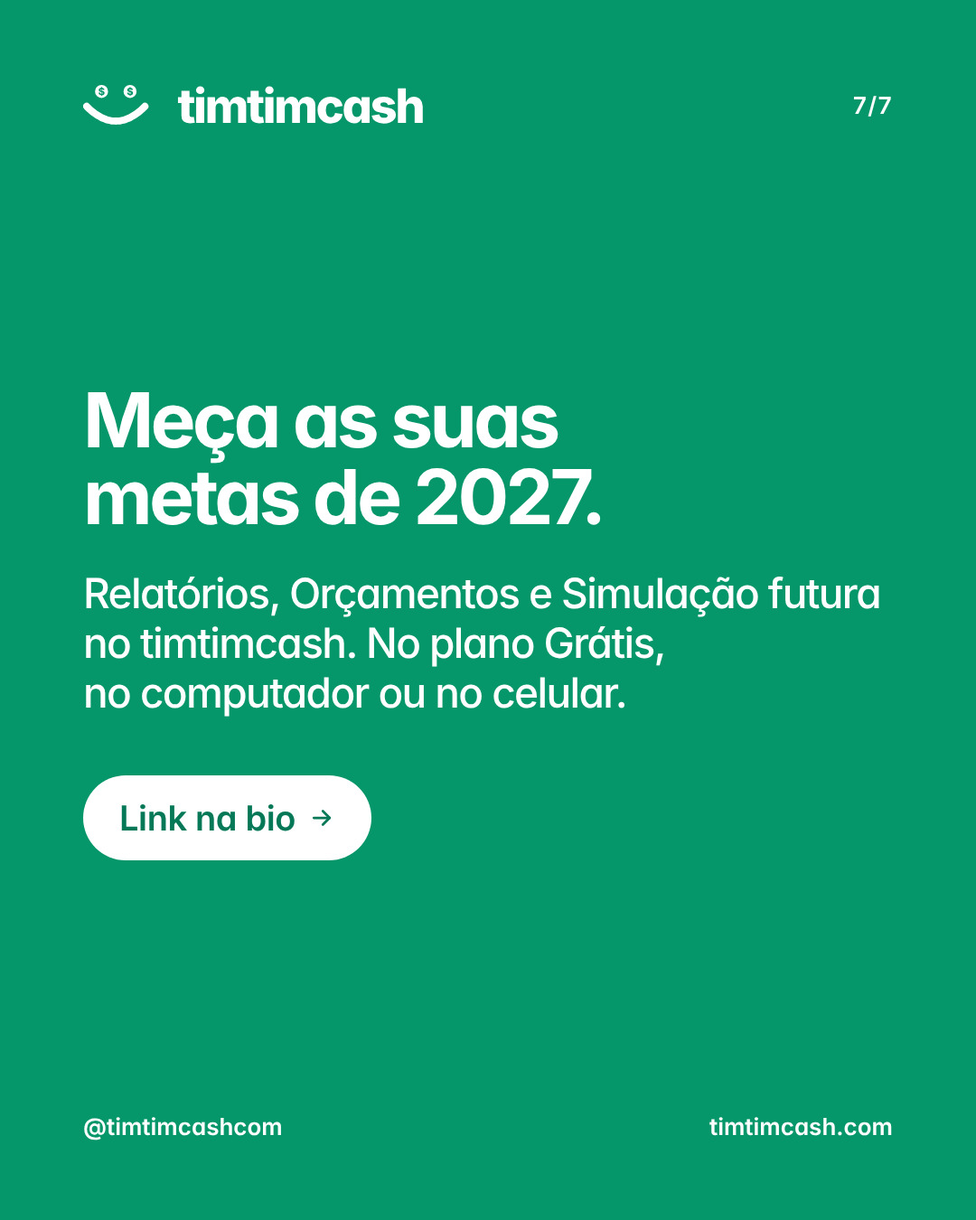
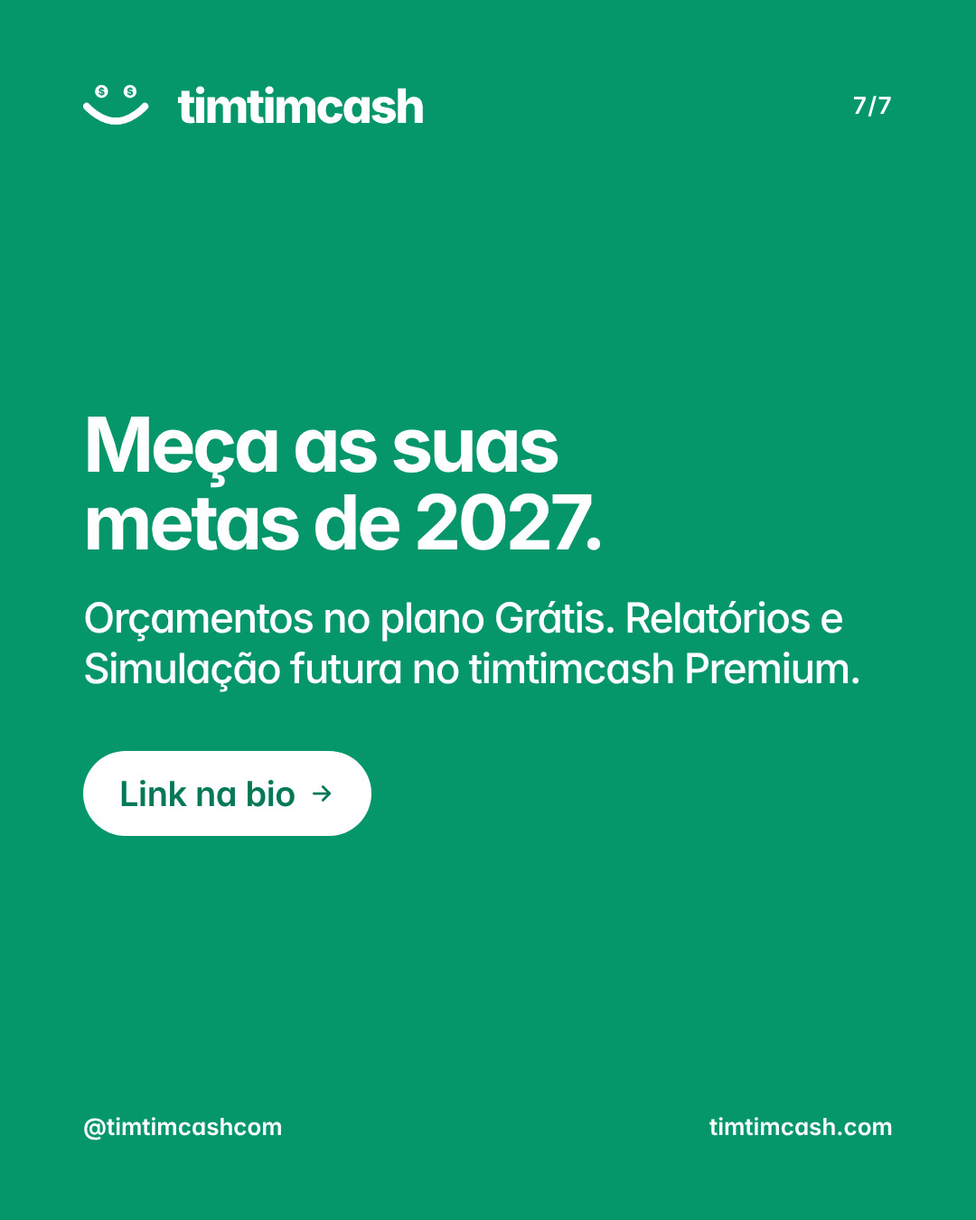
Premium: Relatórios e Simulação futura nos posts agendados (21/11/2026)
Desde o build 2026-11-20.1, Relatórios (com o Diagnóstico) e a Simulação futura são
do Premium. Aprovado pelo dono em 21/11/2026: em 16 posts agendados (22/11/2026 a
26/02/2027), a legenda passa a dizer isso; em seis carrosséis (26/11, 16/12, 21/12,
16/01, 06/02 e 26/02), o último slide e o texto alternativo deixam de dizer
"No plano Grátis". A regra dos planos em gerador/FUNCIONALIDADES.md acompanha.

Claude-Session: https://claude.ai/code/session_016QkANUS9yS3CrXh74FyZHQ

Changed region(s): [[0.0611, 0.3111, 0.9167, 0.7156]]

diff --git a/gerador/semanas/2026-12/dados/2026-12-16_sua-inflacao-nao-e-a-do-ipca.py b/gerador/semanas/2026-12/dados/2026-12-16_sua-inflacao-nao-e-a-do-ipca.py
@@ -38,7 +38,7 @@ POST = {
         "NO EXEMPLO · A sua cesta tem outros pesos. · Barras em par (cinza: IPCA, setembro de 2026; coral: exemplo, novembro de 2026): Alimentação 21,5% e 30,3%; Habitação 15,3% e 27,3%; Educação 6,2% e 15,8% (destaque); Transportes 20,2% e 13,2%; Saúde 13,8% e 1,4%. · Nota: Em % do gasto. No exemplo (novembro de 2026), Alimentação soma mercado e bares e restaurantes; Habitação, aluguel e luz.",
         "LEIA ASSIM · Onde a sua cesta pesa mais, a alta pesa mais. · Cartão: Educação no IPCA 6,2% → no exemplo 15,8% · 2,5× o peso. “Em 12 meses, Educação subiu 5,95%, mais que o índice (4,58%). Nessa casa, a alta da escola pesa duas vezes e meia o que pesa no IPCA.” · Citação em verde suave: “O seu índice pessoal de inflação pode ser maior ou menor do que o IPCA.” IBGE, “Inflação”, na série IBGE Explica.",
         "NO TIMTIMCASH · Veja quanto cada categoria leva do seu gasto. · Em Relatórios, Despesas por categoria, no período que você escolher. · Tela real no celular (relógio em 16/12/2026, novembro de 2026): “Despesas por categoria · 9 categorias · Total R$ 9.149,40”; Casa R$ 2.501,80 27,3%; Mercado R$ 1.844,90 20,2%; Educação R$ 1.450,00 15,8%; Transporte R$ 1.210,00 13,2%; Bares e restaurantes R$ 928,60 10,1%. Ao lado, o “GRUPO DO IPCA” de cada linha: Habitação, Alimentação, Educação (em coral), Transportes, Alimentação. · Nota: Tela real do timtimcash, com dados de exemplo.",
-        "Fechamento (fundo verde) · Conheça a sua cesta. · Relatórios no timtimcash. No plano Grátis, no computador ou no celular. · Botão: Link na bio.",
+        "Fechamento (fundo verde) · Conheça a sua cesta. · Relatórios no timtimcash Premium, no computador ou no celular. · Botão: Link na bio.",
     ],
     "legenda": (
         "A inflação oficial é uma média. A sua tem outros pesos.\n\n"
@@ -48,6 +48,7 @@ POST = {
         "No nosso exemplo, a escola leva 15,8% das despesas de novembro: duas vezes e meia o peso de Educação no IPCA. "
         "Quando a mensalidade sobe, essa casa sente mais do que o índice. O próprio IBGE lembra: a sua inflação pode ser maior ou menor do que o IPCA.\n\n"
         "No timtimcash, Relatórios mostra em Despesas por categoria quanto cada categoria leva do seu gasto, no período que você escolher.\n\n"
+        "Relatórios são do timtimcash Premium.\n\n"
         "Tela real do timtimcash, com dados de exemplo.\n\n"
         "Fonte: IBGE, IPCA de setembro de 2026 (divulgado em 09/10/2026).\n\n"
         "Acesse pelo navegador, no computador ou no celular: timtimcash.com\n\n"
@@ -66,7 +67,7 @@ POST = {
         "No exemplo, a sua cesta tem outros pesos. Barras em par, o IPCA de setembro de 2026 e o exemplo de novembro de 2026, em porcentagem do gasto: Alimentação, 21,5% e 30,3%; Habitação, 15,3% e 27,3%; Educação, 6,2% e 15,8%; Transportes, 20,2% e 13,2%; Saúde, 13,8% e 1,4%. No exemplo, Alimentação soma mercado e bares e restaurantes; Habitação, aluguel e luz.",
         "Leia assim: onde a sua cesta pesa mais, a alta pesa mais. Educação pesa 6,2% no IPCA e 15,8% no exemplo, 2,5 vezes o peso. Em 12 meses, Educação subiu 5,95%, mais que o índice, de 4,58%; nessa casa, a alta da escola pesa duas vezes e meia o que pesa no IPCA. Citação do IBGE: o seu índice pessoal de inflação pode ser maior ou menor do que o IPCA.",
         "No timtimcash: veja quanto cada categoria leva do seu gasto, em Relatórios, Despesas por categoria. Tela real no celular, novembro de 2026, com dados de exemplo: total de R$ 9.149,40 em 9 categorias; Casa, R$ 2.501,80, 27,3%; Mercado, R$ 1.844,90, 20,2%; Educação, R$ 1.450,00, 15,8%; Transporte, R$ 1.210,00, 13,2%; Bares e restaurantes, R$ 928,60, 10,1%. Ao lado de cada linha, o grupo do IPCA: Habitação, Alimentação, Educação, Transportes e Alimentação.",
-        "Conheça a sua cesta. Relatórios no timtimcash. No plano Grátis, no computador ou no celular. Link na bio.",
+        "Conheça a sua cesta. Relatórios no timtimcash Premium, no computador ou no celular. Link na bio.",
     ],
     "fontes": [
         ("IBGE · IPCA fica em 0,82% em setembro (4,58% em 12 meses), release de 09/10/2026", "https://agenciadenoticias.ibge.gov.br/agencia-sala-de-imprensa/2013-agencia-de-noticias/releases/48246-ipca-fica-em-0-82-em-setembro"),

diff --git a/gerador/semanas/2027-02/dados/2027-02-06_gasto-anual-vira-mensal.py b/gerador/semanas/2027-02/dados/2027-02-06_gasto-anual-vira-mensal.py
@@ -40,13 +40,14 @@ POST = {
         "A REGRA · Guarde 1/12 por mês. · Começando em fevereiro, o dinheiro de janeiro fica pronto antes de janeiro chegar. · Gráfico “O fundo do ano, mês a mês · + R$ 455,37 todo mês”: 12 barras verdes, de fev a jan, que crescem até R$ 2.403,70 em novembro, descem em dezembro e chegam a quase zero em janeiro. Legenda: fev a nov: paga o IPTU e cresce; dez: paga o Natal; jan: paga IPVA, material e uniforme. · Nota: Conta de exemplo, com os valores de 2027 repetidos até janeiro de 2028, quando o fundo paga a última conta do ciclo.",
         "NO TIMTIMCASH · SIMULAÇÃO FUTURA · Um gasto em todo janeiro. · Em “Ajustar por mês”, a regra “+ Um mês do ano” põe o IPVA em cada janeiro do cenário. · Tela real no celular, relógio em 06/02/2027: Regras, 1 regra, “Todo mês de janeiro”, R$ 1.236; os botões “+ A partir de um mês”, “+ Um mês do ano” e “+ Um mês específico”; “Resultado nos 24 meses · 22 meses em R$ 0 · 2 em R$ 1.236”, com a faixa de fev/27 a jan/29 e os dois janeiros em verde. · Nota: Tela real do timtimcash, com dados de exemplo.",
         "NO TIMTIMCASH · NOVA TRANSAÇÃO · Ou lance o IPVA como Fixa anual. · O de 2028 já fica em Pendentes, com a data. E todo janeiro aparece de novo. · Tela real da “Nova transação” no celular, relógio em 06/02/2027: Despesa, R$ 1.236,00; Data 20/01/2028; “Marcar como pago” desligado; Categoria Impostos e Taxas; Pago via Conta corrente; IPVA; Recorrência Fixa; Anual; “Lançamentos automáticos · anual”. · Nota: Tela real do timtimcash, com dados de exemplo.",
-        "Fechamento (fundo verde) · Janeiro sem susto. · Simulação futura no timtimcash. No plano Grátis, no computador ou no celular. · Botão: Link na bio.",
+        "Fechamento (fundo verde) · Janeiro sem susto. · Simulação futura no timtimcash Premium, no computador ou no celular. · Botão: Link na bio.",
     ],
     "legenda": (
         "O gasto que vem uma vez por ano cabe no mês, se você dividir por 12.\n\n"
         "Na conta de exemplo: IPVA de R$ 1.236, IPTU de R$ 2.150 (10 × R$ 215), material e uniforme de R$ 1.226 e R$ 852,40 de presentes de Natal. São R$ 5.464,40 no ano, ou R$ 455,37 por mês.\n\n"
         "A regra: guarde 1/12 por mês. Começando em fevereiro, o fundo paga o IPTU de fevereiro a novembro, o Natal em dezembro e o IPVA, o material e o uniforme em janeiro de 2028.\n\n"
         "No timtimcash, a Simulação futura tem a regra “+ Um mês do ano”: o IPVA entra em todo janeiro do cenário. E na Nova transação, a recorrência Fixa anual deixa o IPVA de 2028 em Pendentes, com a data.\n\n"
+        "A Simulação futura é do timtimcash Premium.\n\n"
         "Tela real do timtimcash, com dados de exemplo.\n\n"
         "Acesse pelo navegador, no computador ou no celular: timtimcash.com\n\n"
         "#planejamentofinanceiro #ipva #iptu #financaspessoais #timtimcash"
@@ -63,7 +64,7 @@ POST = {
         "A regra: guarde 1/12 por mês. Começando em fevereiro, o dinheiro de janeiro fica pronto antes de janeiro chegar. Gráfico do fundo do ano, com R$ 455,37 guardados todo mês: as barras crescem de fevereiro a novembro, quando chegam a R$ 2.403,70, mesmo pagando o IPTU; em dezembro o fundo paga o Natal; em janeiro paga IPVA, material e uniforme e fica perto de zero.",
         "No timtimcash, na Simulação futura: um gasto em todo janeiro. Em Ajustar por mês, a regra Um mês do ano põe o IPVA em cada janeiro do cenário. Tela real do celular, com dados de exemplo: regra Todo mês de janeiro, R$ 1.236; resultado nos 24 meses, 22 meses em zero e 2 em R$ 1.236, com os dois janeiros destacados na faixa de fevereiro de 2027 a janeiro de 2029.",
         "No timtimcash, na Nova transação: ou lance o IPVA como Fixa anual. O de 2028 já fica em Pendentes, com a data, e todo janeiro aparece de novo. Tela real do celular, com dados de exemplo: despesa de R$ 1.236, data 20 de janeiro de 2028, ainda não paga, categoria Impostos e Taxas, descrição IPVA, recorrência Fixa, anual.",
-        "Janeiro sem susto. Simulação futura no timtimcash. No plano Grátis, no computador ou no celular. Link na bio.",
+        "Janeiro sem susto. Simulação futura no timtimcash Premium, no computador ou no celular. Link na bio.",
     ],
     "fontes": [],
     "telas": [

diff --git a/gerador/semanas/2027-01/dados/2027-01-16_o-que-se-repete-todo-mes.py b/gerador/semanas/2027-01/dados/2027-01-16_o-que-se-repete-todo-mes.py
@@ -35,7 +35,7 @@ POST = {
         "O QUE SE REPETE · Fixa, parcela e o que se repete. · Três linhas reais da lista de dez/26: Aluguel (Fixa) R$ 2.300,00, ao lado “Fixa: lançada como Fixa: aluguel, escola, assinaturas”; Notebook (Parcela 2/10) R$ 360,00, “Parcela: compra parcelada: o notebook em 10 vezes”; Mercado da Vila (Repetida) R$ 452,30, “Repetida: mesma descrição em 3 ou mais meses: mercado, combustível”. Embaixo, a regra da tela: “Entram como recorrentes as despesas lançadas como Fixa ou Parcelada e as que se repetem com a mesma descrição em 3 ou mais meses, com valor na mesma ordem de grandeza.” · Nota: Tela real do timtimcash, com dados de exemplo.",
         "O PONTUAL · O pontual tem data. · Em 2026, R$ 6.063,50 vieram uma vez só. Janeiro, julho e dezembro levaram a maior parte. · Barras do pontual por mês em 2026 (R$): jan 1.390, jul 640, set 264, out 276, nov 519, dez 2.974,50; os outros meses vazios. Tela real da lista Pontual · Jan/26, R$ 1.390,00, 15% do mês: IPVA · parcela única R$ 1.180,00 e IPTU · 1ª parcela R$ 210,00. · Nota: Tela real do timtimcash, com dados de exemplo.",
         "POR QUE SEPARAR · Cada parte pede um cuidado. · Recorrente, 94%, R$ 7.982,60 por mês: entra no plano do mês, e um ajuste nele vale 12 vezes: R$ 50 a menos por mês são R$ 600 no ano. Pontual, 6%, R$ 6.063,50 no ano: não vem todo mês, mas vem; separe antes: no exemplo, janeiro, julho e dezembro. · Nota: Exemplo: a conta fictícia dos nossos posts, despesas pagas de janeiro a dezembro de 2026.",
-        "Fechamento (fundo verde) · Veja o que se repete no seu ano. · Relatórios no timtimcash. No plano Grátis, no computador ou no celular. · Botão: Link na bio.",
+        "Fechamento (fundo verde) · Veja o que se repete no seu ano. · Relatórios no timtimcash Premium, no computador ou no celular. · Botão: Link na bio.",
     ],
     "legenda": (
         "Quanto do seu gasto se repete?\n\n"
@@ -47,7 +47,7 @@ POST = {
         "O recorrente entra no plano do mês, e um ajuste nele vale 12 vezes: R$ 50 a menos por mês são R$ 600 no ano. O pontual não vem "
         "todo mês, mas vem: dá para separar antes.\n\n"
         "Tela real do timtimcash, com dados de exemplo.\n\n"
-        "No plano Grátis, os Relatórios mostram os últimos 12 meses; o histórico completo, como o ano de 2026 inteiro, é do Premium.\n\n"
+        "Relatórios são do timtimcash Premium.\n\n"
         "Acesse pelo navegador, no computador ou no celular: timtimcash.com\n\n"
         "#planejamentofinanceiro #orcamento #controlefinanceiro #financaspessoais #timtimcash"
     ),
@@ -63,7 +63,7 @@ POST = {
         "Fixa, parcela e o que se repete. Três linhas reais da lista de dezembro: aluguel, marcado como Fixa, 2.300 reais, lançado como fixa, como aluguel, escola e assinaturas; notebook, parcela 2 de 10, 360 reais, compra parcelada; Mercado da Vila, marcado como Repetida, 452 reais e 30 centavos, a mesma descrição em 3 ou mais meses, como mercado e combustível. Embaixo, a regra da tela: entram como recorrentes as despesas lançadas como Fixa ou Parcelada e as que se repetem com a mesma descrição em 3 ou mais meses, com valor na mesma ordem de grandeza.",
         "O pontual tem data. Em 2026, 6.063 reais e 50 centavos vieram uma vez só; janeiro, julho e dezembro levaram a maior parte. Barras do pontual por mês: janeiro, 1.390 reais; julho, 640; setembro, 264; outubro, 276; novembro, 519; dezembro, 2.974 reais e 50 centavos. Tela real da lista pontual de janeiro de 2026: IPVA, parcela única, 1.180 reais, e IPTU, primeira parcela, 210 reais.",
         "Por que separar: cada parte pede um cuidado. Recorrente, 94%, 7.982 reais e 60 centavos por mês: entra no plano do mês, e um ajuste nele vale 12 vezes; 50 reais a menos por mês são 600 no ano. Pontual, 6%, 6.063 reais e 50 centavos no ano: não vem todo mês, mas vem; separe antes, no exemplo em janeiro, julho e dezembro.",
-        "Veja o que se repete no seu ano. Relatórios no timtimcash. No plano Grátis, no computador ou no celular. Link na bio.",
+        "Veja o que se repete no seu ano. Relatórios no timtimcash Premium, no computador ou no celular. Link na bio.",
     ],
     "fontes": [],
     "telas": [

diff --git a/gerador/semanas/2027-02/dados/2027-02-26_fevereiro-fechou-5-perguntas.py b/gerador/semanas/2027-02/dados/2027-02-26_fevereiro-fechou-5-perguntas.py
@@ -38,7 +38,7 @@ POST = {
         "PERGUNTA 3 DE 5 · RELATÓRIOS · 3 Quanto da receita ficou? · 11,4% até hoje, abaixo da sua média de 18,3%. A meta é 20%. · Recorte da tela real do Diagnóstico de fevereiro 2027 no celular: 11%, Abaixo do seu padrão · −6,9 pontos percentuais; Você costuma guardar 18,3% da receita. O maior desvio veio de Mercado: +R$ 453,50 em relação à média.; Receita guardada 11,4%, −6,9 p.p., sua média (12m): 18,3% · meta: 20%. · Nota: Tela real do timtimcash, com dados de exemplo.",
         "PERGUNTA 4 DE 5 · RELATÓRIOS · 4 O que fugiu do normal? · Mercado: R$ 453,50 acima da média, +28%. Saúde ficou 52% abaixo. · Recorte da tela real de “O que mudou” (Maiores desvios em relação à sua média de 12 meses): Mercado, média R$ 1.646,10 · agora R$ 2.099,60, +R$ 453,50, +28%; Saúde, média R$ 268,11 · agora R$ 129,90, −R$ 138,21, −52%. · Nota: Tela real do timtimcash, com dados de exemplo.",
         "PERGUNTA 5 DE 5 · ORÇAMENTOS · 5 Como ficaram os limites? · Bares e restaurantes passou R$ 101; Mercado, R$ 99. As outras 3 categorias ficaram dentro do limite. · Recorte da tela real de Orçamentos no celular, faixa “Já passaram do limite”: Bares e restaurantes, R$ 701 de R$ 600, 117%, Excedeu em R$ 101, no ritmo fecha em R$ 755; Mercado, R$ 2.099 de R$ 2.000, 105%, Excedeu em R$ 99, no ritmo fecha em R$ 2.261. · Nota: Tela real do timtimcash, com dados de exemplo.",
-        "Fechamento (fundo verde) · Feche o mês com respostas. · Visão geral, Pendentes, Relatórios e Orçamentos, no plano Grátis, no computador ou no celular. · Botão: Link na bio.",
+        "Fechamento (fundo verde) · Feche o mês com respostas. · Visão geral, Pendentes e Orçamentos no plano Grátis. Relatórios no timtimcash Premium. · Botão: Link na bio.",
     ],
     "legenda": (
         "Fevereiro fechou. 5 perguntas antes de março.\n\n"
@@ -49,6 +49,7 @@ POST = {
         "5. Como ficaram os limites? Bares e restaurantes passou R$ 101; Mercado, R$ 99.\n\n"
         "Em Bares, R$ 112,50 foram do Carnaval, pagos pelo envelope: sem eles, a categoria ficaria dentro do limite. O envelope separa o dinheiro, mas o gasto conta na categoria.\n\n"
         "No timtimcash, as respostas estão na Visão geral (em Ambos), em Pendentes, em Relatórios e em Orçamentos.\n\n"
+        "Relatórios são do timtimcash Premium.\n\n"
         "Tela real do timtimcash, com dados de exemplo.\n\n"
         "Acesse pelo navegador, no computador ou no celular: timtimcash.com\n\n"
         "#controlefinanceiro #organizacaofinanceira #financaspessoais #planejamentofinanceiro #timtimcash"
@@ -66,7 +67,7 @@ POST = {
         "Pergunta 3 de 5: quanto da receita ficou? 11,4% até hoje, abaixo da sua média de 18,3%; a meta é 20%. Recorte da tela real do Diagnóstico de fevereiro: abaixo do seu padrão, menos 6,9 pontos percentuais; você costuma guardar 18,3% da receita; o maior desvio veio de Mercado, 453,50 reais acima da média; receita guardada de 11,4%.",
         "Pergunta 4 de 5: o que fugiu do normal? Mercado ficou 453,50 reais acima da média, mais 28%; Saúde ficou 52% abaixo. Recorte da tela real de O que mudou, em Relatórios: Mercado, média de 1.646,10 reais e agora 2.099,60; Saúde, média de 268,11 reais e agora 129,90.",
         "Pergunta 5 de 5: como ficaram os limites? Bares e restaurantes passou 101 reais do limite; Mercado, 99 reais; as outras 3 categorias ficaram dentro. Recorte da tela real de Orçamentos, faixa já passaram do limite: Bares e restaurantes, 701 de 600 reais, 117%; Mercado, 2.099 de 2.000 reais, 105%.",
-        "Feche o mês com respostas. Visão geral, Pendentes, Relatórios e Orçamentos, no plano Grátis, no computador ou no celular. Link na bio.",
+        "Feche o mês com respostas. Visão geral, Pendentes e Orçamentos no plano Grátis. Relatórios no timtimcash Premium. Link na bio.",
     ],
     "fontes": [],
     "telas": [

diff --git a/gerador/semanas/2026-12/dados/2026-12-21_metas-de-2027-que-da-para-medir.py b/gerador/semanas/2026-12/dados/2026-12-21_metas-de-2027-que-da-para-medir.py
@@ -32,7 +32,7 @@ POST = {
         "META 3 · EM ORÇAMENTOS · Um limite por categoria. · No dia 21, o mercado do exemplo está em R$ 1.307. No ritmo, fecha dezembro em R$ 1.930, dentro dos R$ 2.000. · Tela real no celular (relógio em 21/12/2026): Progresso por categoria, Dezembro 2026 · 5 categorias; Mercado R$ 1.307 de R$ 2.000, 65%, no ritmo, fecha em R$ 1.930, NO LIMITE. · Nota: Tela real do timtimcash, com dados de exemplo.",
         "META 4 · NA SIMULAÇÃO FUTURA · Um saldo e o mês em que ele chega. · Em Definir uma meta, o cenário mostra quando chega lá. · Tela real no celular (relógio em 21/12/2026; Cenário base com horizonte de 1 ano e a meta de R$ 35.000 definida pela interface, sem gravar): Saldo em nov/27 R$ 35.540; +R$ 1.780 por mês · 12 meses; “Meta R$ 35 mil · atinge em nov/27”; gráfico de Hoje a nov/27 com a linha tracejada da meta. · Nota: Tela real do timtimcash, com dados de exemplo.",
         "SALVE ESTE POST · As suas 4 metas de 2027. · Folha para preencher: 1. Guardar ___% da receita (mede em: Relatórios › Diagnóstico); 2. Reserva de ___ meses de gastos (Relatórios › Diagnóstico); 3. ______ até R$ ___ por mês (Orçamentos); 4. R$ ___ até ___/2027 (Simulação futura).",
-        "Fechamento (fundo verde) · Meça as suas metas de 2027. · Relatórios, Orçamentos e Simulação futura no timtimcash. No plano Grátis, no computador ou no celular. · Botão: Link na bio.",
+        "Fechamento (fundo verde) · Meça as suas metas de 2027. · Orçamentos no plano Grátis. Relatórios e Simulação futura no timtimcash Premium. · Botão: Link na bio.",
     ],
     "legenda": (
         "Metas de 2027 que dá para medir: com número, prazo e um lugar para acompanhar.\n\n"
@@ -41,6 +41,7 @@ POST = {
         "3. Um limite por categoria. Em Orçamentos, o mercado do exemplo está em R$ 1.307 de R$ 2.000 no dia 21 e, no ritmo, fecha dezembro em R$ 1.930.\n"
         "4. Um saldo com data. Na Simulação futura, Definir uma meta mostra o mês em que o saldo chega lá: R$ 35 mil em nov/27, no cenário do exemplo.\n\n"
         "Salve o post e preencha as suas.\n\n"
+        "Relatórios e a Simulação futura são do timtimcash Premium.\n\n"
         "Tela real do timtimcash, com dados de exemplo.\n\n"
         "Acesse pelo navegador, no computador ou no celular: timtimcash.com\n\n"
         "#metas #planejamentofinanceiro #orcamento #financaspessoais #timtimcash"
@@ -58,7 +59,7 @@ POST = {
         "Meta 3, em Orçamentos: um limite por categoria. No dia 21, o mercado do exemplo está em R$ 1.307; no ritmo, fecha dezembro em R$ 1.930, dentro dos R$ 2.000. Tela real no celular, com dados de exemplo: progresso por categoria em dezembro de 2026; Mercado, R$ 1.307 de R$ 2.000, 65%, no ritmo fecha em R$ 1.930, no limite.",
         "Meta 4, na Simulação futura: um saldo e o mês em que ele chega. Em Definir uma meta, o cenário mostra quando chega lá. Tela real no celular, com dados de exemplo: saldo em novembro de 2027 de R$ 35.540, mais R$ 1.780 por mês em 12 meses; meta de R$ 35 mil, atinge em novembro de 2027; gráfico subindo de hoje até novembro de 2027, com a linha tracejada da meta.",
         "Salve este post: as suas 4 metas de 2027. Uma folha para preencher: guardar tantos por cento da receita, medido em Relatórios, Diagnóstico; reserva de tantos meses de gastos, no Diagnóstico; uma categoria até tantos reais por mês, em Orçamentos; um saldo em reais até um mês de 2027, na Simulação futura.",
-        "Meça as suas metas de 2027. Relatórios, Orçamentos e Simulação futura no timtimcash. No plano Grátis, no computador ou no celular. Link na bio.",
+        "Meça as suas metas de 2027. Orçamentos no plano Grátis. Relatórios e Simulação futura no timtimcash Premium. Link na bio.",
     ],
     "fontes": [],
     "telas": [

diff --git a/gerador/semanas/2026-11/dados/2026-11-26_tres-categorias-levam-dois-tercos.py b/gerador/semanas/2026-11/dados/2026-11-26_tres-categorias-levam-dois-tercos.py
@@ -28,7 +28,7 @@ POST = {
         "NO EXEMPLO · As três maiores somam 69%. · Casa 30,3% R$ 2.492,60; Mercado 21,0% R$ 1.725,00; Educação 17,7% R$ 1.450,00; faixa “As 3 juntas 69% R$ 5.667,60”; Outras 6 categorias 31,0% R$ 2.547,40. · Nota: Despesas de outubro de 2026: R$ 8.215,00.",
         "ONDE MEXER PRIMEIRO · Comece pelo que pesa. · Um corte pequeno numa categoria grande vale mais que um corte inteiro numa pequena. · Barras: cortar 10% do Mercado (de R$ 1.725,00 para R$ 1.552,50), R$ 172,50; cancelar todas as assinaturas (vídeo, música e nuvem), R$ 119,80; “quanto fica no bolso por mês, no exemplo de outubro”.",
         "EM RELATÓRIOS · A Concentração faz essa conta. · No período que você escolher, ela mostra quantas categorias levam a maior parte do gasto. · Tela real do painel Concentração no celular, outubro de 2026 (relógio em 26/11/2026): “3 categorias respondem por 69% do que você gastou”, barra, Casa 30,3% R$ 2.492,60, Mercado 21,0% R$ 1.725,00, Educação 17,7% R$ 1.450,00, Outras 6 categorias 31,0% R$ 2.547,40. · Nota: Tela real do timtimcash, com dados de exemplo.",
-        "Fechamento (fundo verde) · Comece pelas categorias que pesam. · Relatórios no timtimcash. No plano Grátis, no computador ou no celular. · Botão: Link na bio.",
+        "Fechamento (fundo verde) · Comece pelas categorias que pesam. · Relatórios no timtimcash Premium, no computador ou no celular. · Botão: Link na bio.",
     ],
     "legenda": (
         "Três categorias levaram mais de 2/3 do gasto do mês no nosso exemplo.\n\n"
@@ -36,6 +36,7 @@ POST = {
         "As outras 6 categorias, juntas, ficaram com 31%.\n\n"
         "Por isso vale começar pelas categorias que pesam: cortar 10% do mercado (R$ 172,50 por mês) rende mais do que cancelar todas as assinaturas (R$ 119,80).\n\n"
         "No timtimcash, a Concentração, em Relatórios, mostra quantas categorias respondem pela maior parte do que você gastou no período escolhido.\n\n"
+        "Relatórios são do timtimcash Premium.\n\n"
         "Tela real do timtimcash, com dados de exemplo.\n\n"
         "Acesse pelo navegador, no computador ou no celular: timtimcash.com\n\n"
         "#orcamento #controlefinanceiro #financaspessoais #educacaofinanceira #timtimcash"
@@ -52,7 +53,7 @@ POST = {
         "No exemplo, as três maiores somam 69%. Casa, 30,3%, R$ 2.492,60; Mercado, 21,0%, R$ 1.725,00; Educação, 17,7%, R$ 1.450,00. As 3 juntas: 69%, R$ 5.667,60. Outras 6 categorias: 31,0%, R$ 2.547,40. Despesas de outubro de 2026: R$ 8.215,00.",
         "Onde mexer primeiro: comece pelo que pesa. Um corte pequeno numa categoria grande vale mais que um corte inteiro numa pequena. Cortar 10% do Mercado, de R$ 1.725,00 para R$ 1.552,50, deixa R$ 172,50 por mês; cancelar todas as assinaturas, de vídeo, música e nuvem, deixa R$ 119,80.",
         "Em Relatórios, a Concentração faz essa conta: no período que você escolher, ela mostra quantas categorias levam a maior parte do gasto. Tela real no celular, outubro de 2026, com dados de exemplo: 3 categorias respondem por 69% do que você gastou. Casa, 30,3%, R$ 2.492,60; Mercado, 21,0%, R$ 1.725,00; Educação, 17,7%, R$ 1.450,00; outras 6 categorias, 31,0%, R$ 2.547,40.",
-        "Comece pelas categorias que pesam. Relatórios no timtimcash. No plano Grátis, no computador ou no celular. Link na bio.",
+        "Comece pelas categorias que pesam. Relatórios no timtimcash Premium, no computador ou no celular. Link na bio.",
     ],
     "fontes": [],
     "telas": [

diff --git a/gerador/semanas/2026-12/dados/2026-12-07_janeiro-caro-o-que-chega-junto.py b/gerador/semanas/2026-12/dados/2026-12-07_janeiro-caro-o-que-chega-junto.py
@@ -43,6 +43,7 @@ POST = {
         "Na conta do exemplo, janeiro só perde para dezembro, o mês das festas: em 2026, levou R$ 9.420, com IPVA e IPTU.\n\n"
         "O que chega junto: o IPVA (em São Paulo, em 2026, à vista em janeiro com 3% de desconto ou em 5 parcelas), o IPTU (na capital paulista, a partir de fevereiro, à vista com 3% de desconto ou em 10 parcelas), material escolar e matrícula, as parcelas da Black Friday e a fatura das festas. O calendário de 2027 sai pelo seu estado e pela sua cidade: confira.\n\n"
         "No timtimcash, a Visão geral em Previsto mostra janeiro de 2027 ainda em dezembro: R$ 6.405,80 já têm data, 76% de um mês médio. No exemplo, a 2ª parcela do 13º cobre o IPVA e o material escolar.\n\n"
+        "A Sazonalidade do slide 2 fica em Relatórios, no timtimcash Premium.\n\n"
         "Tela real do timtimcash, com dados de exemplo.\n\n"
         "Fontes: Decreto estadual 70.087/2025 (SP); Prefeitura de São Paulo.\n\n"
         "Acesse pelo navegador, no computador ou no celular: timtimcash.com\n\n"

diff --git a/gerador/semanas/2026-12/equipes/dc2/posts.py b/gerador/semanas/2026-12/equipes/dc2/posts.py
@@ -367,7 +367,7 @@ def post_inflacao():
 {visual}{NOTA_TELA}""", 6, T))
 
     s.append(fechamento_verde("Conheça a sua cesta.",
-                              "Relatórios no\u00a0timtimcash. No\u00a0plano\u00a0Grátis, no\u00a0computador ou no\u00a0celular.", 7, T))
+                              "Relatórios no\u00a0timtimcash\u00a0Premium, no\u00a0computador ou no\u00a0celular.", 7, T))
     return [sem_quebra(h) for h in s]
 
 
@@ -703,7 +703,7 @@ def post_metas():
 <div class='visual' style='margin-top:42px'><div class='card' style='padding:4px 44px;background:#fff'>{linhas}</div></div>""", 6, T))
 
     s.append(fechamento_verde("Meça as suas metas de 2027.",
-                              "Relatórios, Orçamentos e Simulação\u00a0futura no\u00a0timtimcash. No\u00a0plano\u00a0Grátis, no\u00a0computador ou no\u00a0celular.", 7, T))
+                              "Orçamentos no\u00a0plano\u00a0Grátis. Relatórios e Simulação\u00a0futura no\u00a0timtimcash\u00a0Premium.", 7, T))
     return [sem_quebra(h) for h in s]
 
 

diff --git a/gerador/semanas/2027-02/dados/2027-02-15_reel-fluxo-o-ano-numa-tela.py b/gerador/semanas/2027-02/dados/2027-02-15_reel-fluxo-o-ano-numa-tela.py
@@ -50,7 +50,7 @@ POST = {
         "No Fluxo, isso aparece num cartão, no gráfico Fluxo detalhado (receitas e despesas em barras, o resultado em linha e o saldo "
         "acumulado), nas maiores entradas e saídas e no Resumo mensal, mês a mês. Para ver 12 meses, escolha o período no calendário: "
         "aqui, de 01/03/2026 a 28/02/2027.\n\n"
-        "O Fluxo mostra o que já aconteceu: só entram lançamentos pagos ou recebidos. O futuro fica na Simulação futura.\n\n"
+        "O Fluxo mostra o que já aconteceu: só entram lançamentos pagos ou recebidos. O futuro fica na Simulação futura, do timtimcash Premium.\n\n"
         "Tela real do timtimcash, com dados de exemplo.\n\n"
         "Crie sua conta com nome, e-mail e senha e comece no plano Grátis.\n\n"
         "Acesse pelo navegador, no computador ou no celular: timtimcash.com\n\n"

diff --git a/gerador/semanas/2027-01/dados/2027-01-02_comece-2027-organizado.py b/gerador/semanas/2027-01/dados/2027-01-02_comece-2027-organizado.py
@@ -46,7 +46,7 @@ POST = {
         "3 · Os limites (14/01): quanto cabe em cada categoria, a partir da sua média.\n"
         "4 · A rota (18/01): e se 2027 apertar? Um teste na Simulação futura, sem mudar nada.\n"
         "Em 30/01, a revisão de sábado fecha a série.\n\n"
-        "Salve este post e siga o perfil para fazer junto. Comece hoje no plano Grátis: crie sua conta com nome, e-mail e senha.\n\n"
+        "Salve este post e siga o perfil para fazer junto. Comece hoje no plano Grátis: crie sua conta com nome, e-mail e senha. A Simulação futura, do passo 4, é do timtimcash Premium.\n\n"
         "Tela real do timtimcash, com dados de exemplo.\n\n"
         "Acesse pelo navegador, no computador ou no celular: timtimcash.com\n\n"
         "#organizacaofinanceira #controlefinanceiro #financaspessoais #anonovo #timtimcash"

diff --git a/gerador/semanas/2027-01/dados/2027-01-23_reel-cascata-do-seu-2026.py b/gerador/semanas/2027-01/dados/2027-01-23_reel-cascata-do-seu-2026.py
@@ -46,7 +46,7 @@ POST = {
         "R$ 17.400,00. No pé da cascata, o resultado: R$ 24.438,66, 19,4% da receita.\n\n"
         "Os três maiores degraus levaram mais da metade da receita (R$ 66.567,60). Os degraus mais altos mostram para onde o dinheiro "
         "escorre, e são o primeiro lugar para olhar ao planejar 2027.\n\n"
-        "No plano Grátis, os Relatórios mostram os últimos 12 meses; o histórico completo, como o ano de 2026 inteiro, é do Premium.\n\n"
+        "Relatórios são do timtimcash Premium.\n\n"
         "Tela real do timtimcash, com dados de exemplo.\n\n"
         "Acesse pelo navegador, no computador ou no celular: timtimcash.com\n\n"
         "#relatoriofinanceiro #financaspessoais #organizacaofinanceira #controlefinanceiro #timtimcash"

diff --git a/gerador/semanas/2026-12/dados/2026-12-11_reel-quatro-perguntas-antes-de-gastar.py b/gerador/semanas/2026-12/dados/2026-12-11_reel-quatro-perguntas-antes-de-gastar.py
@@ -45,6 +45,7 @@ POST = {
         "3. O que vence no começo do ano? IPVA, IPTU e material escolar. No exemplo, R$ 2.391: quase toda a 2ª parcela, de R$ 2.433,36.\n"
         "4. Qual é o plano para o resto? Lance a 2ª parcela como a receber e dê um destino antes de ela cair.\n\n"
         "A lei manda pagar a 2ª parcela até 20 de dezembro, que em 2026 é um domingo: confira a data com a empresa.\n\n"
+        "Relatórios são do timtimcash Premium.\n\n"
         "Tela real do timtimcash, com dados de exemplo.\n\n"
         "Fontes: Banco Central, taxas médias de agosto de 2026; Lei 4.749/1965.\n\n"
         "Acesse pelo navegador, no computador ou no celular: timtimcash.com\n\n"
